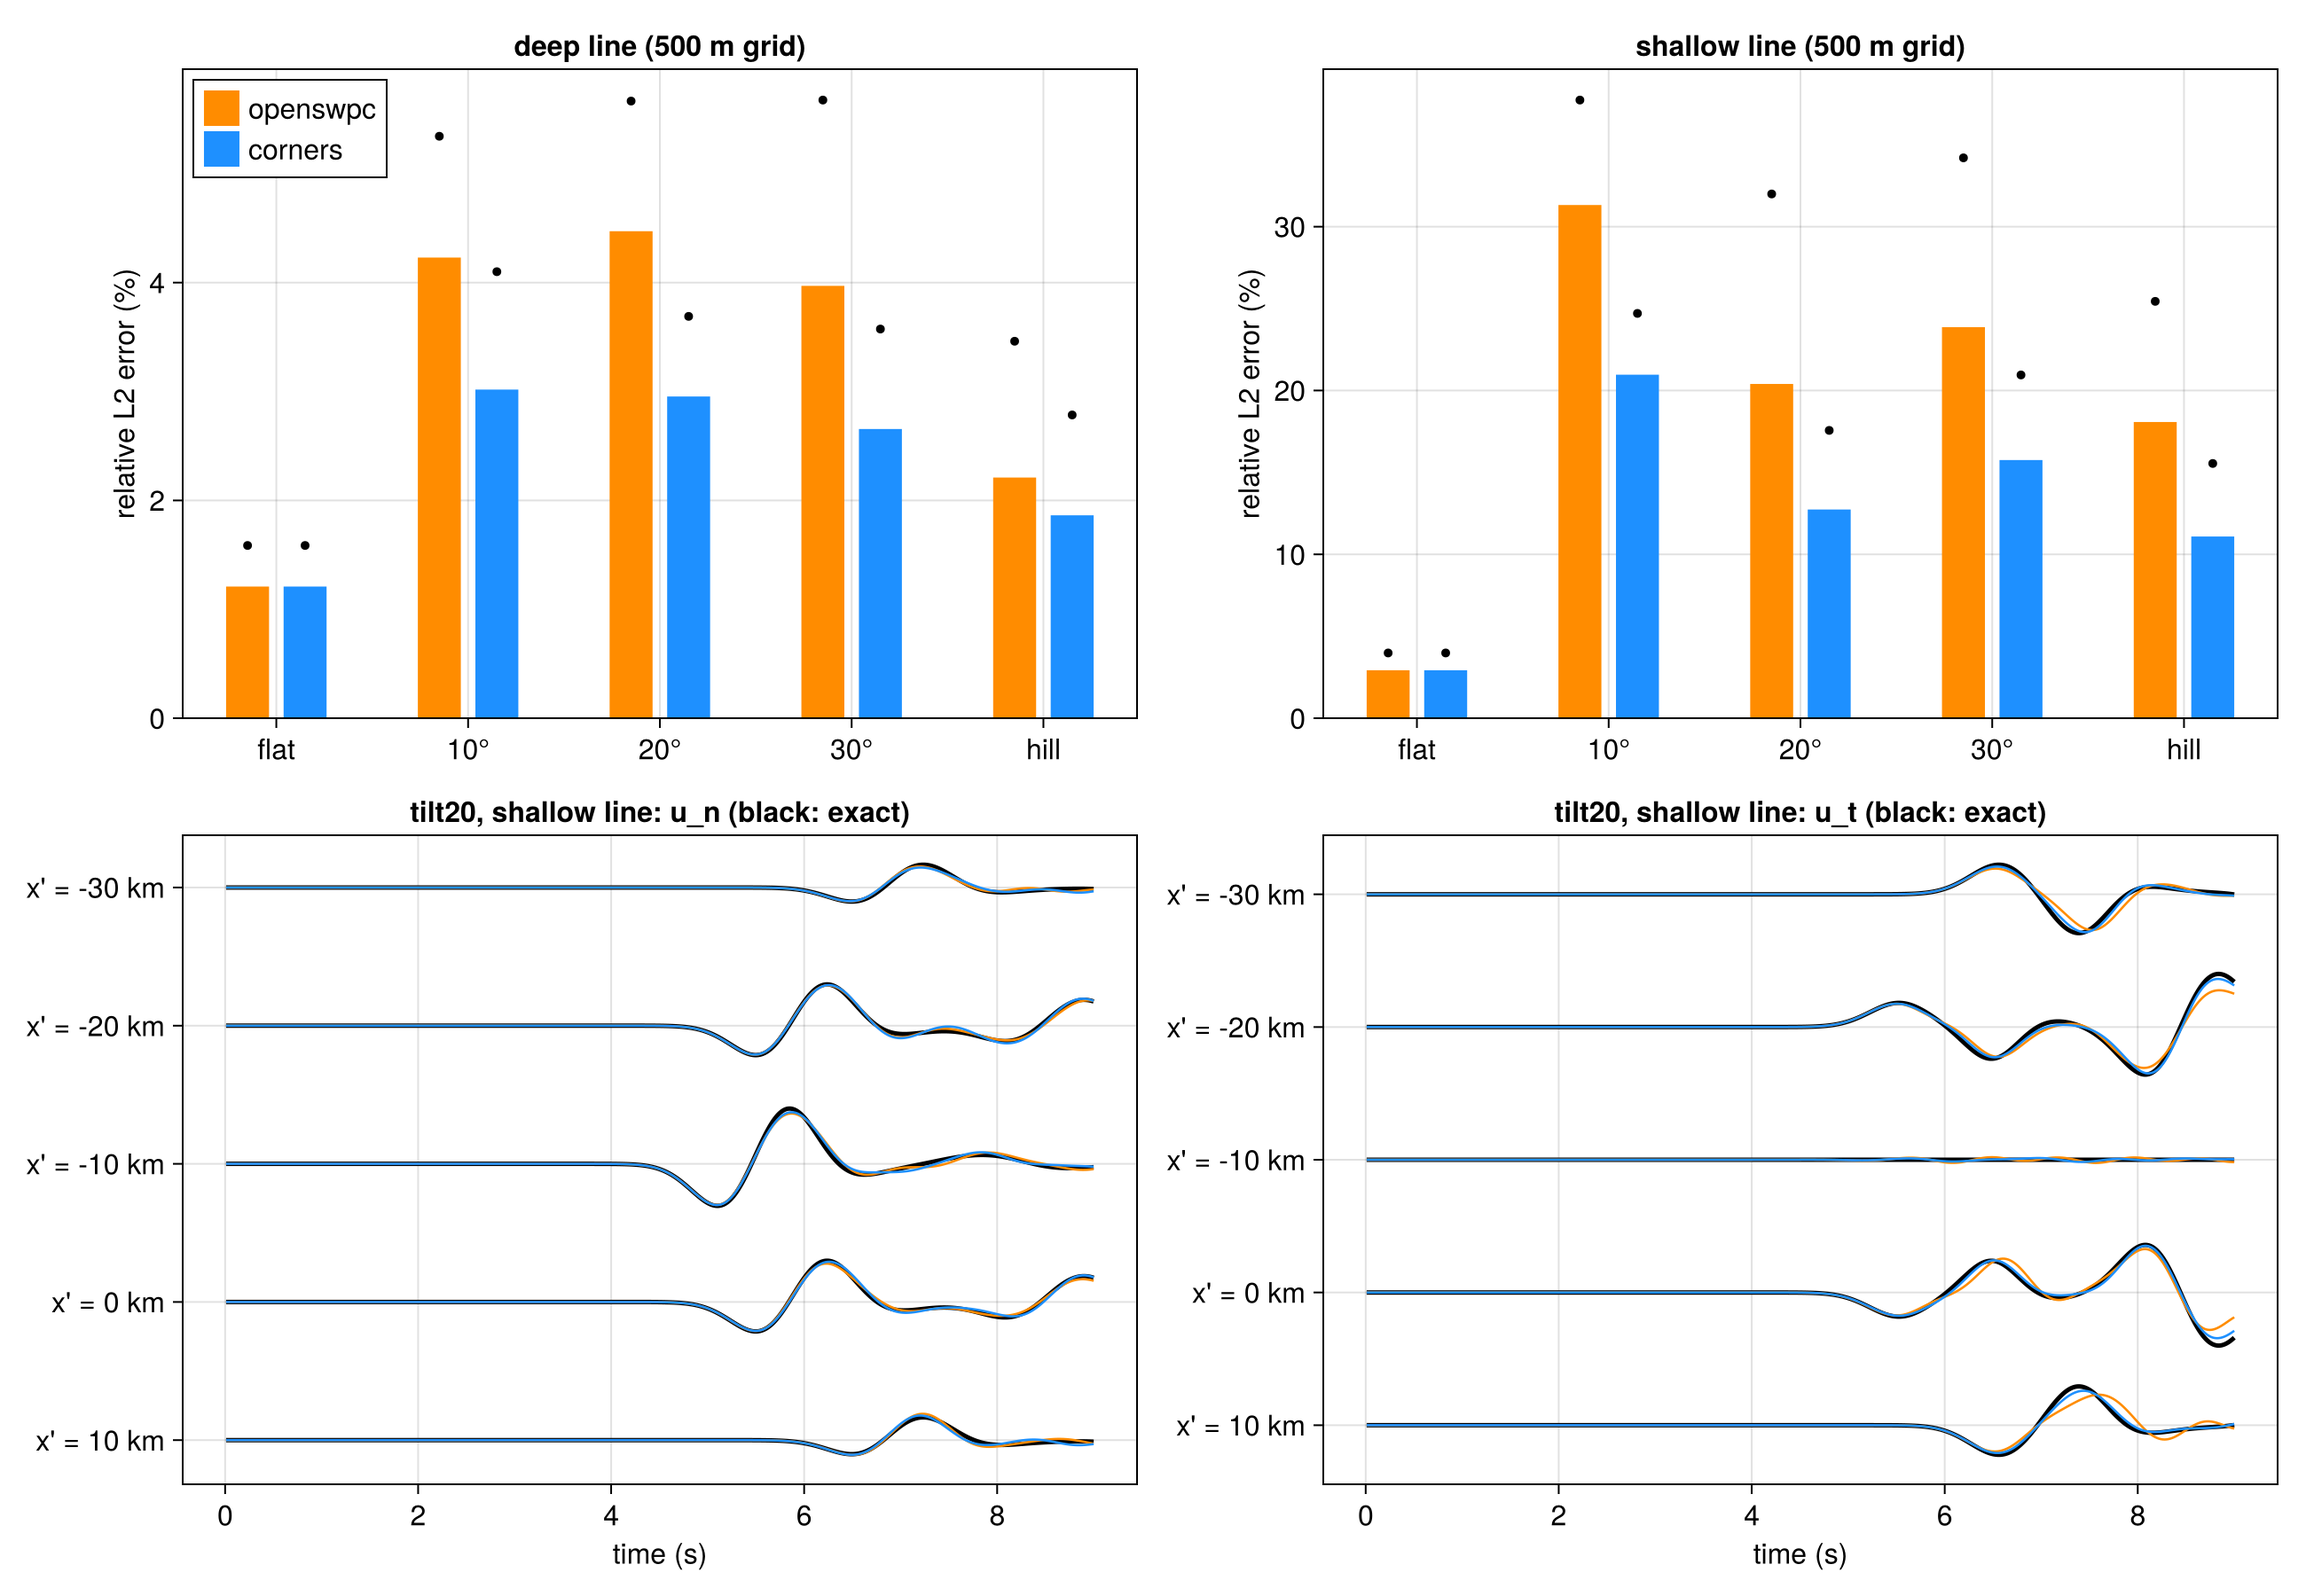
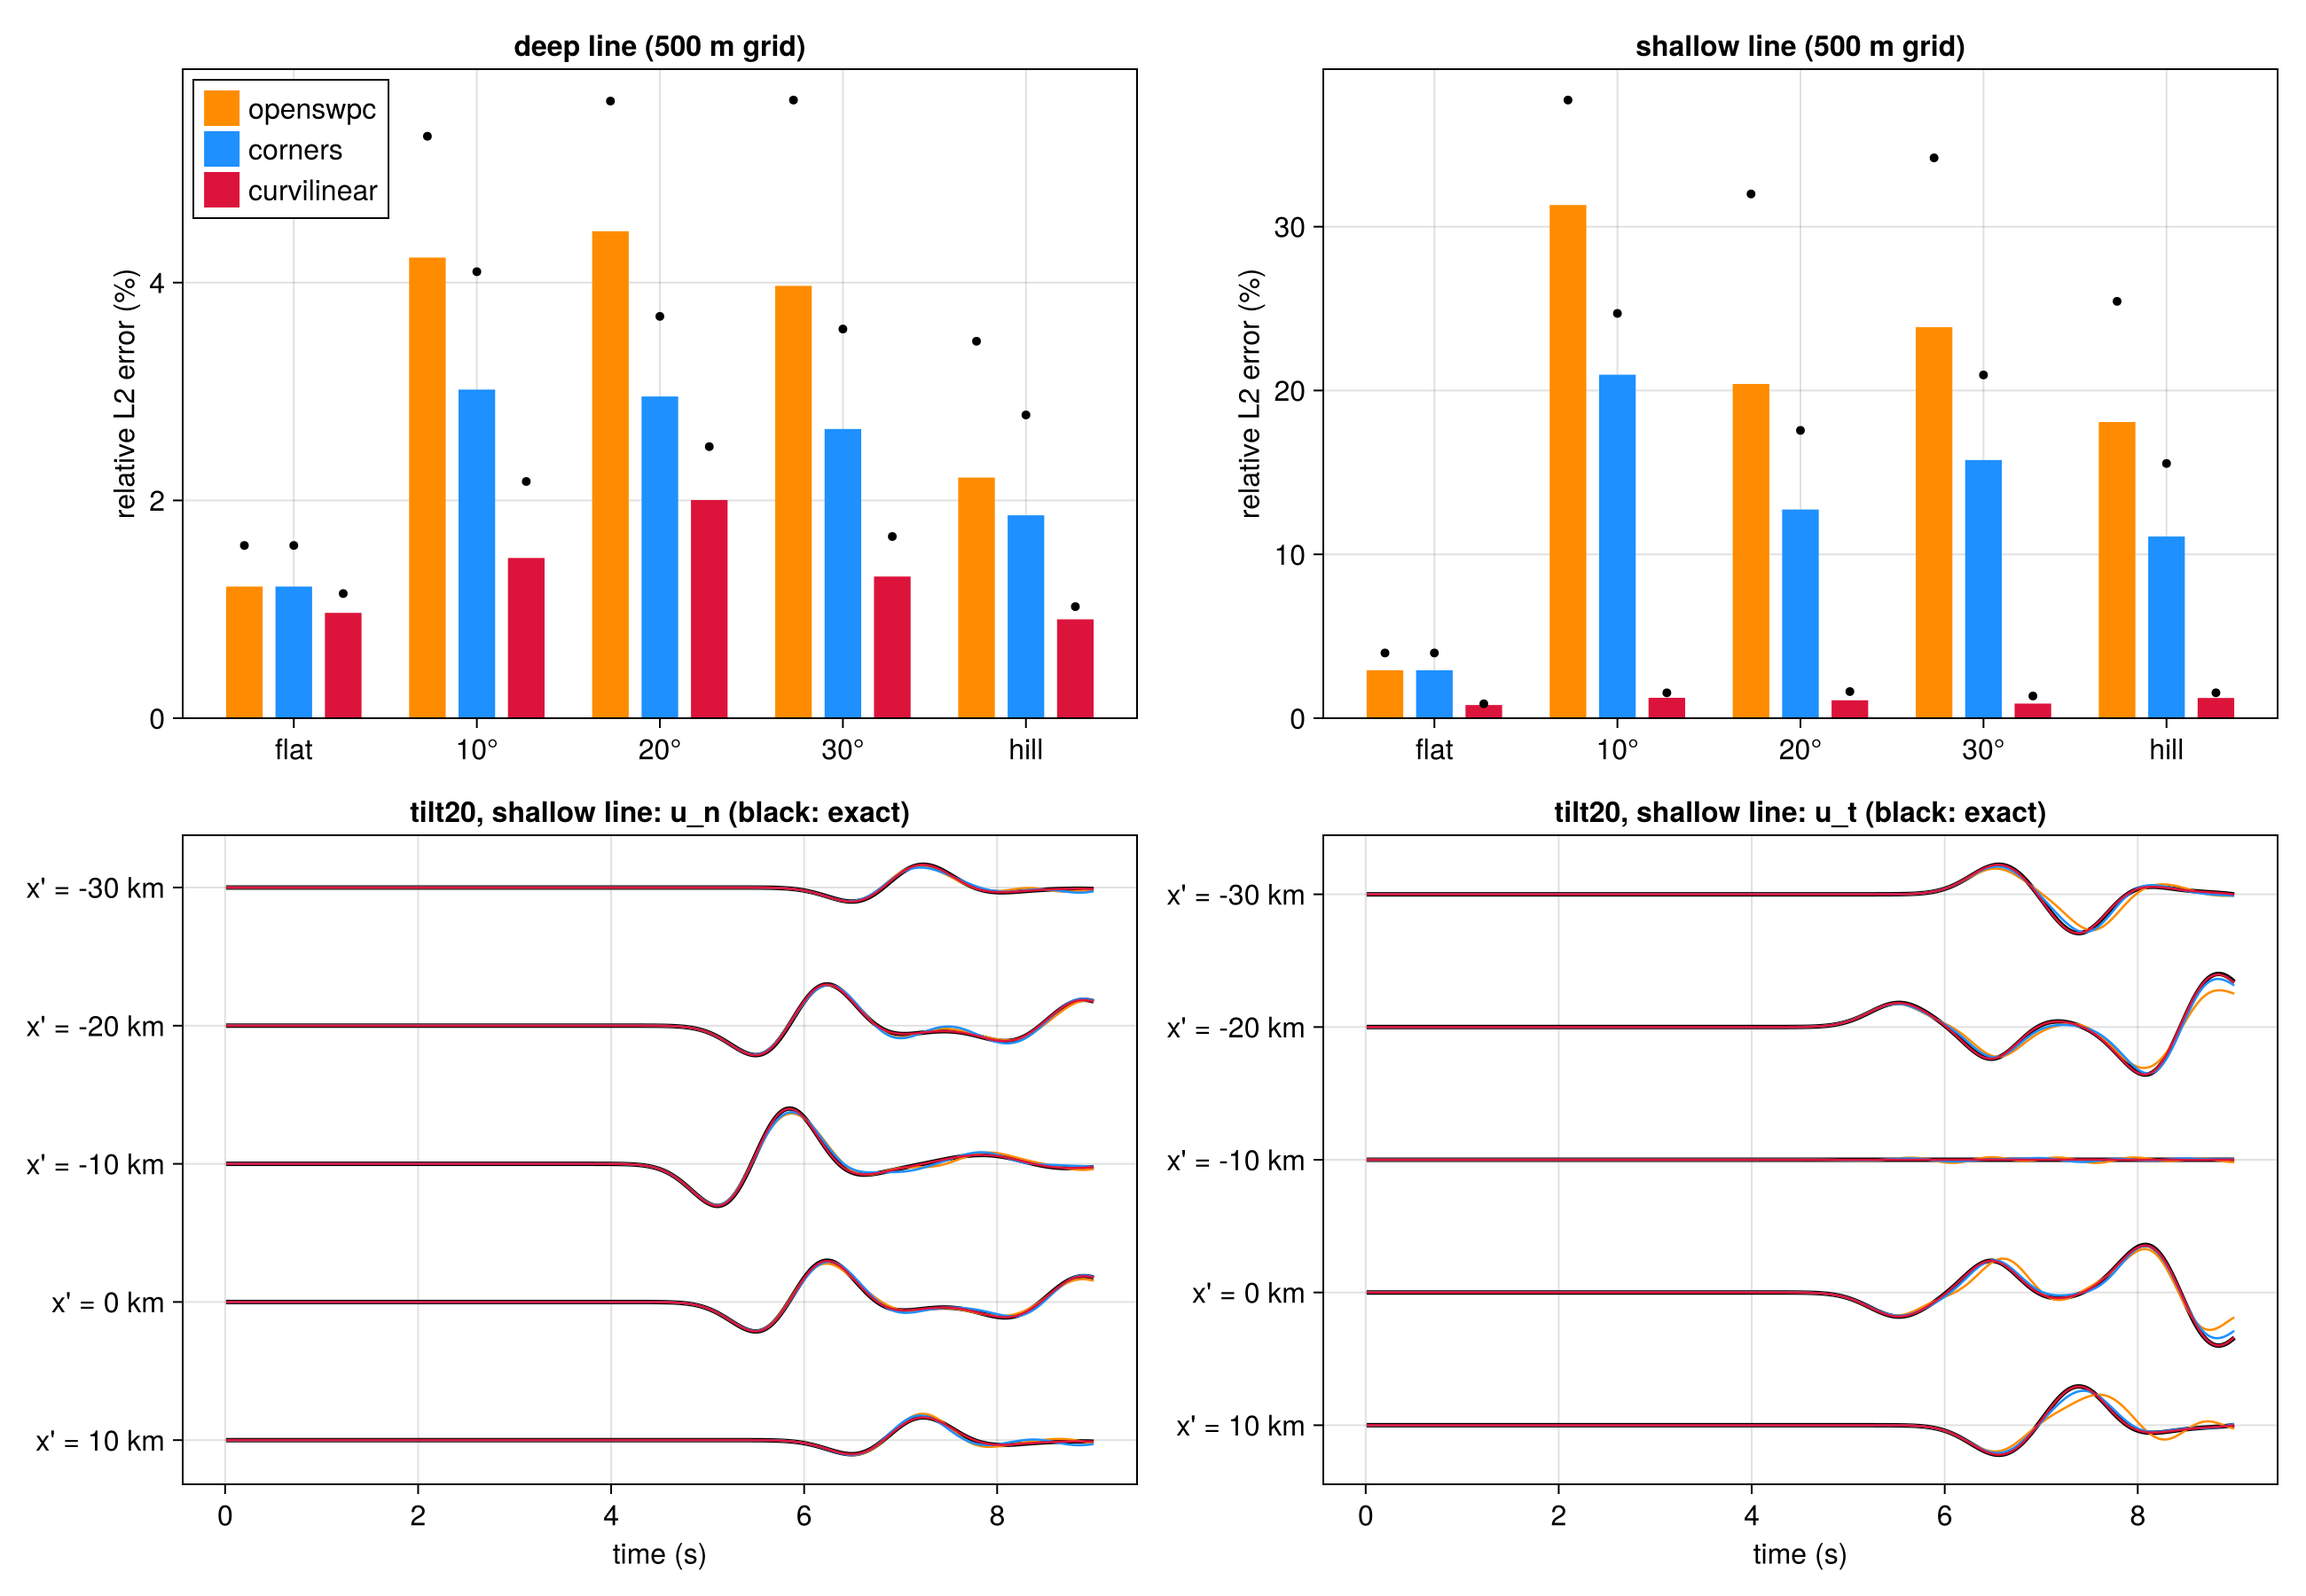
Topography benchmark: the curvilinear solver and run times
examples/topography_benchmark.jl also runs grid = :curvilinear (mesh with the
bottom parallel to the tilted surface) and prints the run time of every
simulation. Validation docs: the curvilinear column (about 1 % on both lines in
all cases) and a run-time / accuracy table: curvilinear at 500 m matches the
accuracy of :corners at 125 m, about 10x faster.

Changed region(s): [[0.0935, 0.1244, 0.4985, 0.4978], [0.5919, 0.1244, 0.9658, 0.4667], [0.0623, 0.0933, 0.1558, 0.1556]]

diff --git a/docs/src/validation.md b/docs/src/validation.md
@@ -86,27 +86,49 @@ The same benchmark with topography (the `dev/cutCells` cases of [flexOPT.jl](htt
 also by Nobuaki Fuji): the free surface tilted by 10, 20 and 30° (source, force along the normal and receivers rotated with
 it), and a Gaussian hill (3 km high, σ = 5 km) between the source and the receivers. Two lines of five receivers, 10 km
 ("deep") and 1 km ("shallow") below the surface; components along (u_t) and normal to the surface (u_n). On the 500 m grid
-(16 points per S wavelength) the surface is a staircase of cells. The references: for the tilted planes the exact answer,
-the flat case rotated (on a 62.5 m grid, where its surface lies on cell faces); for the hill `free_surface = :corners` on a
-62.5 m grid
+(16 points per S wavelength) the staggered grid represents the surface as a staircase of cells, with the default free
+surface or `free_surface = :corners`; the curvilinear solver (`grid = :curvilinear`, see [Models](models.md)) puts its
+nodes exactly on the surface (for the tilts on a mesh whose bottom is parallel to the surface, 80 km below it). The
+references: for the tilted planes the exact answer, the flat case rotated (on a 62.5 m grid, where its surface lies on cell
+faces); for the hill `free_surface = :corners` on a 62.5 m grid
 ([`examples/topography_benchmark.jl`](https://github.com/JuliaGeodynamics/SeismicWavePC.jl/blob/main/examples/topography_benchmark.jl),
 under a minute on a laptop):
 
 ![Free surface on topography: relative errors and seismograms](assets/topography_benchmark.png)
 
-Relative L2 error of (u_t, u_n) over 0–9 s, mean (max) over the five receivers of a line:
+Relative L2 error of (u_t, u_n) over 0–9 s on the 500 m grid, mean (max) over the five receivers of a line:
 
-| Case | deep, default (`:openswpc`) | deep, `:corners` | shallow, default (`:openswpc`) | shallow, `:corners` |
-|---|---|---|---|---|
-| flat | 1.2 % (1.6) | 1.2 % (1.6) | 2.9 % (4.0) | 2.9 % (4.0) |
-| 10° | 4.2 % (5.3) | 3.0 % (4.1) | 31 % (38) | 21 % (25) |
-| 20° | 4.5 % (5.7) | 3.0 % (3.7) | 20 % (32) | 13 % (18) |
-| 30° | 4.0 % (5.7) | 2.7 % (3.6) | 24 % (34) | 16 % (21) |
-| hill | 2.2 % (3.5) | 1.9 % (2.8) | 18 % (25) | 11 % (16) |
+| Case | deep, default | deep, `:corners` | deep, curvilinear | shallow, default | shallow, `:corners` | shallow, curvilinear |
+|---|---|---|---|---|---|---|
+| flat | 1.2 % (1.6) | 1.2 % (1.6) | 1.0 % (1.1) | 2.9 % (4.0) | 2.9 % (4.0) | 0.8 % (0.9) |
+| 10° | 4.2 % (5.3) | 3.0 % (4.1) | 1.5 % (2.2) | 31 % (38) | 21 % (25) | 1.2 % (1.5) |
+| 20° | 4.5 % (5.7) | 3.0 % (3.7) | 2.0 % (2.5) | 20 % (32) | 13 % (18) | 1.1 % (1.6) |
+| 30° | 4.0 % (5.7) | 2.7 % (3.6) | 1.3 % (1.7) | 24 % (34) | 16 % (21) | 0.9 % (1.4) |
+| hill | 2.2 % (3.5) | 1.9 % (2.8) | 0.9 % (1.0) | 18 % (25) | 11 % (16) | 1.2 % (1.6) |
 
 Away from the surface the staircase costs little (2–4.5 %). Within a fifth of an S wavelength of a sloping surface the
-errors are 20–30 %, mostly delays of the waves along the surface (u_t in the figure); `:corners` reduces them by 1.5–2. Near
-a sloping surface, use a finer grid than the 16 points per S wavelength that suffice elsewhere.
+errors are 20–30 %, mostly delays of the waves along the surface (u_t in the figure); `:corners` reduces them by 1.5–2. The
+curvilinear solver stays at about 1 % on both lines, as on a flat surface (the hill: at the accuracy of its reference,
+whose variants differ by up to 1 %).
+
+Run times per simulation (9 s, 12 threads of an Apple M-series laptop, after compilation), and the mean error on the
+shallow line of the sloping cases (10°, 20°, 30°, hill):
+
+| Solver | grid | run time | shallow error |
+|---|---|---|---|
+| staggered, default | 500 m | 0.06–0.10 s | 18–31 % |
+| staggered, `:corners` | 500 m | 0.07–0.12 s | 11–21 % |
+| curvilinear | 500 m | 0.12–0.20 s | 0.9–1.2 % |
+| staggered, default | 250 m | 0.34–0.41 s | 5.9–8.2 % |
+| staggered, `:corners` | 250 m | 0.25–0.50 s | 3.6–4.4 % |
+| curvilinear | 250 m | 0.55–0.74 s | 0.6–1.0 % |
+| staggered, default | 125 m | 1.2–2.3 s | 1.7–3.7 % |
+| staggered, `:corners` | 125 m | 1.3–2.4 s | 1.0–1.8 % |
+
+On the same grid a curvilinear run costs about twice a staggered one (as many time steps here, but more work per node:
+7th-order collocated stencils instead of 4th-order staggered ones), but it reaches the accuracy that the staggered grid needs 4×
+finer cells for (`:corners` at 125 m), about 10× faster. Near a sloping surface on the staggered grid, use a finer grid
+than the 16 points per S wavelength that suffice elsewhere, or the curvilinear solver.
 
 ## Rayleigh waves in firn
 
